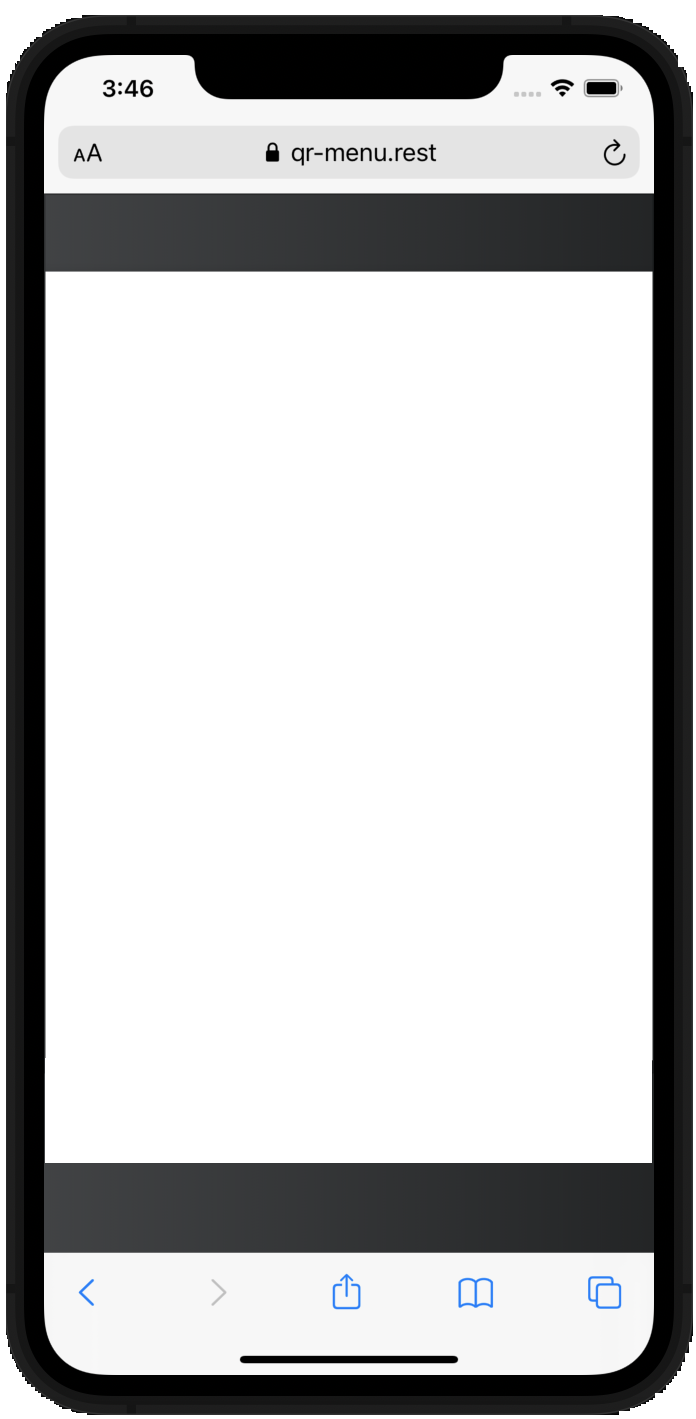
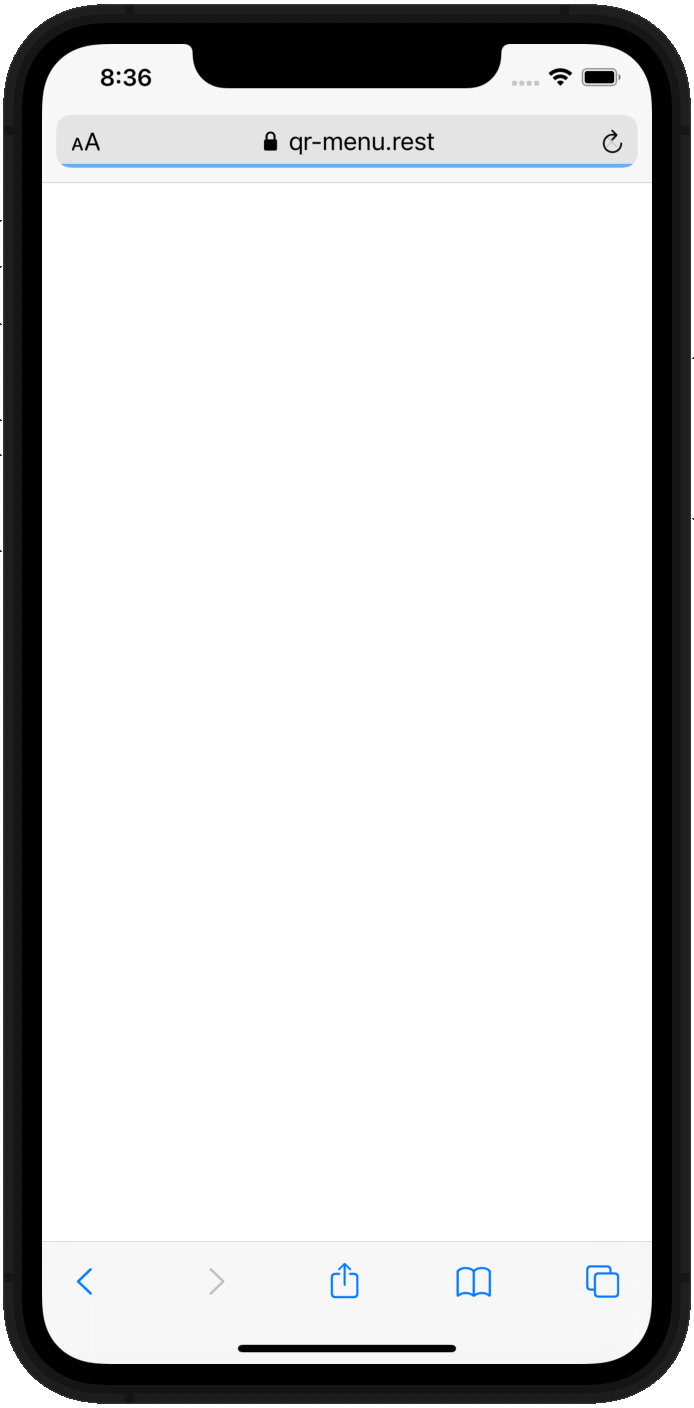
another batch of styling improvments

Changed region(s): [[0.0303, 0.0, 0.9683, 0.9688], [0.0, 0.0312, 0.0303, 0.9375], [0.9683, 0.0312, 0.9986, 0.0625]]

diff --git a/src/components/ViewSDKClient.js b/src/components/ViewSDKClient.js
@@ -1,20 +1,9 @@
-/*
-Copyright 2020 Adobe
-All Rights Reserved.
-NOTICE: Adobe permits you to use, modify, and distribute this file in
-accordance with the terms of the Adobe license agreement accompanying
-it. If you have received this file from a source other than Adobe,
-then your use, modification, or distribution of it requires the prior
-written permission of Adobe.
-*/
-
 class ViewSDKClient {
   constructor() {
       this.readyPromise = new Promise((resolve) => {
           if (window.AdobeDC) {
               resolve();
           } else {
-              /* Wait for Adobe Document Services PDF Embed API to be ready */
               document.addEventListener("adobe_dc_view_sdk.ready", () => {
                   resolve();
               });
@@ -29,39 +18,20 @@ class ViewSDKClient {
 
   previewFile(divId, viewerConfig, url) {
       const config = {
-          /* Pass your registered client id */
           clientId: "be44a0cd9b6848f9965783cf16356f78",
       };
-      if (divId) { /* Optional only for Light Box embed mode */
-          /* Pass the div id in which PDF should be rendered */
+      if (divId) { 
           config.divId = divId;
       }
-      /* Initialize the AdobeDC View object */
       this.adobeDCView = new window.AdobeDC.View(config);
-
-      /* Invoke the file preview API on Adobe DC View object */
       const previewFilePromise = this.adobeDCView.previewFile({
-          /* Pass information on how to access the file */
           content: {
-              /* Location of file where it is hosted */
               location: {
-                  url: url,
-                  /*
-                  If the file URL requires some additional headers, then it can be passed as follows:-
-                  headers: [
-                      {
-                          key: "<HEADER_KEY>",
-                          value: "<HEADER_VALUE>",
-                      }
-                  ]
-                  */
+                url: url,
               },
           },
-          /* Pass meta data of file */
           metaData: {
-              /* file name */
               fileName: "Menu.pdf",
-              /* file ID */
               id: "6d07d124-ac85-43b3-a867-36930f502ac6",
           }
       }, viewerConfig);
@@ -70,35 +40,25 @@ class ViewSDKClient {
   }
 
   previewFileUsingFilePromise(divId, filePromise, fileName) {
-      /* Initialize the AdobeDC View object */
       this.adobeDCView = new window.AdobeDC.View({
-          /* Pass your registered client id */
           clientId: "be44a0cd9b6848f9965783cf16356f78",
-          /* Pass the div id in which PDF should be rendered */
           divId,
       });
 
-      /* Invoke the file preview API on Adobe DC View object */
       this.adobeDCView.previewFile({
-          /* Pass information on how to access the file */
           content: {
-              /* pass file promise which resolve to arrayBuffer */
               promise: filePromise,
           },
-          /* Pass meta data of file */
           metaData: {
-              /* file name */
               fileName: fileName
           }
       }, {});
   }
 
   registerSaveApiHandler() {
-      /* Define Save API Handler */
       const saveApiHandler = (metaData, content, options) => {
           console.log(metaData, content, options);
           return new Promise(resolve => {
-              /* Dummy implementation of Save API, replace with your business logic */
               setTimeout(() => {
                   const response = {
                       code: window.AdobeDC.View.Enum.ApiResponseCode.SUCCESS,
@@ -119,17 +79,12 @@ class ViewSDKClient {
   }
 
   registerEventsHandler() {
-      /* Register the callback to receive the events */
       this.adobeDCView.registerCallback(
-          /* Type of call back */
           window.AdobeDC.View.Enum.CallbackType.EVENT_LISTENER,
-          /* call back function */
           event => {
               console.log(event);
           },
-          /* options to control the callback execution */
           {
-              /* Enable PDF analytics events on user interaction. */
               enablePDFAnalytics: true,
           }
       );

diff --git a/src/components/MenuComponent.jsx b/src/components/MenuComponent.jsx
@@ -9,7 +9,7 @@ import { generateQR } from '../actions/menus';
 import MenuUpload from './MenuUpload';
 import { BrowserRouter as Router, Switch, Route, Link } from "react-router-dom";
 import Button from '@material-ui/core/Button';
-import ViewSDKClient from './SDKclient';
+import ViewSDKClient from './ViewSDKClient.js';
 
 
 
@@ -120,8 +120,8 @@ const MenuComponent = (props) => {
               props.menus.menuFile ?
               <div style={{ textAlign: 'center', justifyContent: 'center', width:"100%", display: 'inline-block'}}>
                 <div style={{ justifyContent: 'center', textAlign: 'center', display: 'flex', paddingBottom:'2%'}}>
-                  <div className="iphone-demo" style={{backgroundImage: `url('/phone_template.png')`, backgroundPosition: 'center', backgroundRepeat: 'no-repeat', backgroundSize: 'cover', height: '45rem', width: '23rem', justifyContent: 'center', alignItems: 'center', display: 'flex'}}>
-                    <div id="pdf-div"  onDocumentLoad={loadPDF()} className="img" style={{height: '79%', width: '87.9%', marginLeft: '2px', marginTop: '3%'}}></div>
+                  <div className="iphone-demo" style={{backgroundImage: `url('/phone_template.png')`, backgroundPosition: 'center', backgroundRepeat: 'no-repeat', backgroundSize: 'cover', height: '46rem', width: '23rem', justifyContent: 'center', alignItems: 'center', display: 'flex'}}>
+                    <div id="pdf-div"  onDocumentLoad={loadPDF()} className="img" style={{height: '79%', width: '88%', marginLeft: '0px', marginTop: '3%'}}></div>
                   </div>
                 </div>
                 <a href={`/menu/${props.menus.domainLink.split('/')[props.menus.domainLink.split('/').length - 1]}`} target="_blank" style={{fontSize:'22px'}} className="text"><p>{text[lang].visitLink}</p></a>

diff --git a/src/components/Demo.jsx b/src/components/Demo.jsx
@@ -141,7 +141,7 @@ const Demo = (props) => {
       {
         demo ?
         <>
-    <div className='dashboard'>
+    <div className='dashboard' >
       <Card className='qr-card'>
         <CardHeader
           avatar={
@@ -176,15 +176,15 @@ const Demo = (props) => {
           >
           </IconButton>
         </Card>
-        <div style={{ justifyContent: 'center', textAlign: 'center', display: 'flex', paddingBottom:'2%'}}>
-          <div className="iphone-demo" style={{backgroundImage: `url('/phone_template.png')`, backgroundPosition: 'center', backgroundRepeat: 'no-repeat', backgroundSize: 'cover', height: '45rem', width: '23rem', justifyContent: 'center', alignItems: 'center', display: 'flex'}}>
-            <iframe src={demo.data.pdf_file} className="img" style={{height: '79%', width: '87.9%', marginLeft: '2px', marginTop: '3%'}}/>
+        <div style={{ justifyContent: 'center', textAlign: 'center', display: 'flex', paddingBottom:'4%'}}>
+          <div className="iphone-demo" style={{backgroundImage: `url('/phone_template.png')`, backgroundPosition: 'center', backgroundRepeat: 'no-repeat', backgroundSize: 'cover', height: '46rem', width: '23rem', justifyContent: 'center', alignItems: 'center', display: 'flex'}}>
+            <iframe src={demo.data.pdf_file} className="img" style={{height: '79%', width: '88%', marginLeft: '0px', marginTop: '3%'}}/>
           </div>
         </div>
         <a href={demo.data.pdf_file} target="_blank" className="text">{text[lang].openFile}</a>
     </div>
 
-    <div style={{justifyContent: 'center', textAlign: 'center', paddingTop: '3%'}}>
+    <div style={{justifyContent: 'center', textAlign: 'center', paddingTop: '4%'}}>
     <>
       <form>
         <input

diff --git a/src/components/SingleFileComponent.jsx b/src/components/SingleFileComponent.jsx
@@ -191,8 +191,8 @@ function SIngleFileComponent(props) {
               </CardActions>
             </Card> 
               <div style={{ justifyContent: 'center', textAlign: 'center', display: 'flex', paddingBottom:'2%'}}>
-              <div className="iphone-demo" style={{backgroundImage: `url('/phone_template.png')`, backgroundPosition: 'center', backgroundRepeat: 'no-repeat', backgroundSize: 'cover', height: '45rem', width: '23rem', justifyContent: 'center', alignItems: 'center', display: 'flex'}}>
-                <iframe src={props.menus.lastFile.pdf_file} className="img" style={{height: '79%', width: '87.9%', marginLeft: '2px', marginTop: '3%'}}/>
+              <div className="iphone-demo" style={{backgroundImage: `url('/phone_template.png')`, backgroundPosition: 'center', backgroundRepeat: 'no-repeat', backgroundSize: 'cover', height: '46rem', width: '23rem', justifyContent: 'center', alignItems: 'center', display: 'flex'}}>
+                <iframe src={props.menus.lastFile.pdf_file} className="img" style={{height: '79%', width: '88%', marginLeft: '0px', marginTop: '3%'}}/>
               </div>
             </div>
             <a href={props.menus.lastFile.pdf_file} className="text" target="_blank">{text[lang].openFile}</a>

diff --git a/src/index.css b/src/index.css
@@ -235,7 +235,7 @@ and (min-width : 481px) {
   }
 
   .MuiAppBar-colorPrimary {
-    background-color: #5d6d7c !important;
+    background-color:#1a1a1a !important;
   }
 
   .MuiTab-textColorPrimary {
@@ -315,6 +315,10 @@ and (min-width : 481px) {
     left: 0;
   }
 
+  .mobile-table {
+    padding-bottom: 3rem;
+  }
+
 }
 
     /* Mobile devices ----------------------------------------------*/
@@ -344,7 +348,7 @@ and (max-device-width : 815px) {
     -moz-osx-font-smoothing: grayscale;
     overflow:scroll;
     height: auto;
-    background: #5d6d7c; /* fallback for old browsers */
+    background: #28252e;
     /* background: -webkit-linear-gradient(to right, #414345, #232526);  /* Chrome 10-25, Safari 5.1-6 */
     /* background: linear-gradient(to right, #414345, #232526); /* W3C, IE 10+/ Edge, Firefox 16+, Chrome 26+, Opera 12+, Safari 7+ */
     

diff --git a/src/components/RenderMenu.jsx b/src/components/RenderMenu.jsx
@@ -2,7 +2,7 @@ import React, { useEffect } from 'react';
 import axios from 'axios';
 import { withRouter } from "react-router";
 import CircularProgress from '@material-ui/core/CircularProgress';
-import ViewSDKClient from './SDKclient';
+import ViewSDKClient from './ViewSDKClient.js';
 
 const RenderMenu = (props) => {
 
@@ -32,8 +32,8 @@ const RenderMenu = (props) => {
   }, []);
 
   const resetNoFile = () => {
-    const file = document.getElementById("no-file").innerHTML;
-    if (file === 'Sorry, no file at this link') {
+    const file = document.getElementById("no-file");
+    if (file && file.innerHTML === 'Sorry, no file at this link') {
       setNoFile('Файл не добавлен');
     } else {
       setNoFile('Sorry, no file at this link');

diff --git a/src/components/SubNavbar.jsx b/src/components/SubNavbar.jsx
@@ -26,7 +26,7 @@ const SubNavbar = (props) => {
   const text = {
     en: {
       tab1: 'Dashboard',
-      tab2: 'Single File Upload',
+      tab2: 'Single File',
       tab3: 'Manage QR Menu',
       tab4: 'QR for a Link'
     },
